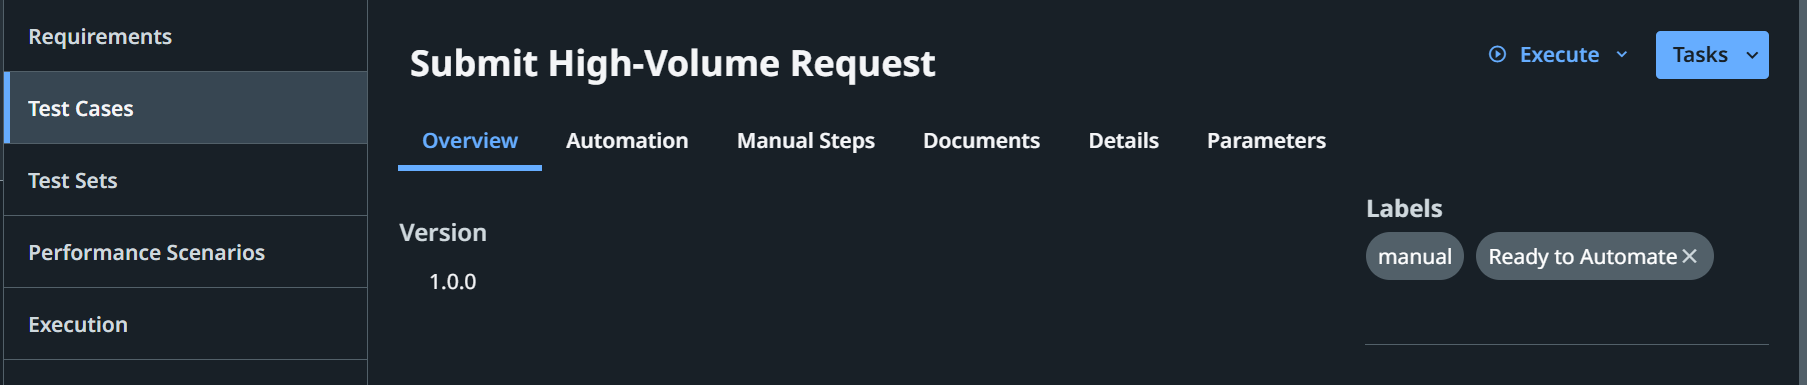
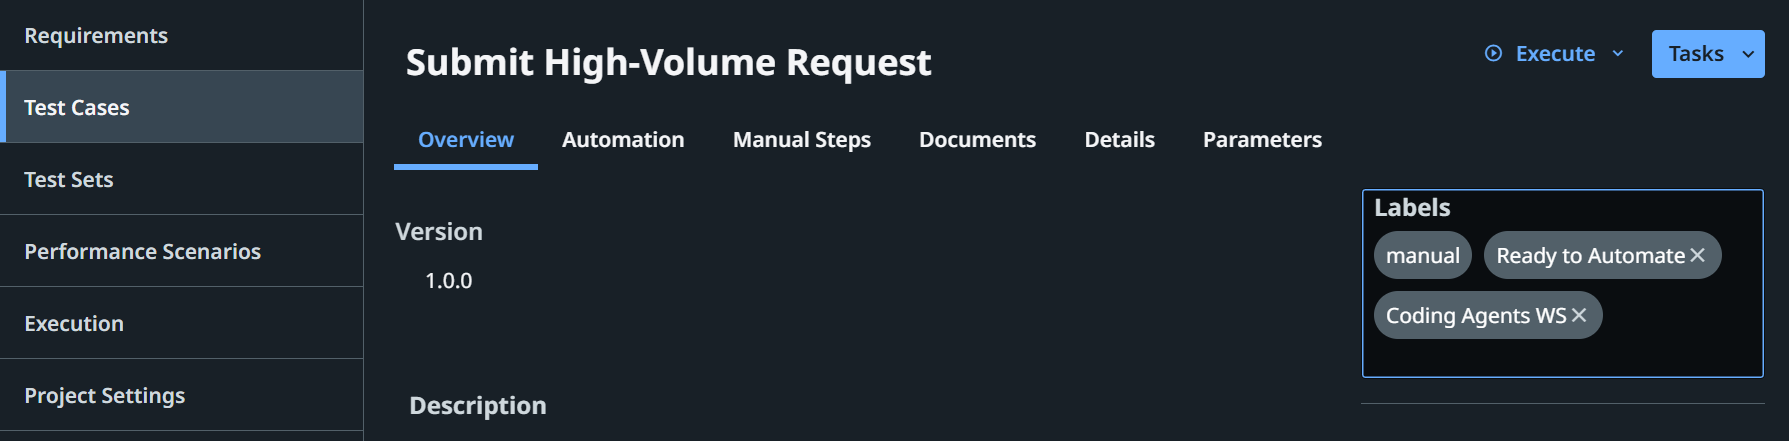
Say where to click to add a label in step 3, with the new screenshot

diff --git a/docs/module-2-hands-on-workshop/03-generate-test-cases.md b/docs/module-2-hands-on-workshop/03-generate-test-cases.md
@@ -52,7 +52,7 @@ The **Generate Test Cases** built-in agent reads a requirement and proposes test
 
     In production, turn on Testing Process Governance so a second reviewer signs off.
 
-7. Choose **2 or 3** test cases on the requirement to use for the rest of the workshop: new ones, existing ones, or a mix. New ones already have the **Coding Agent WS** label. For an existing one, go to **Test Cases**, open it, and add **Coding Agent WS** under **Labels**.
+7. Choose **2 or 3** test cases on the requirement to use for the rest of the workshop: new ones, existing ones, or a mix. New ones already have the **Coding Agent WS** label. For an existing one, go to **Test Cases**, open it, click below the existing labels under **Labels**, and add **Coding Agent WS**.
 
     ![Labels on a test case's Overview tab](../assets/images/TM%20Test%20case%20labels.png)
 
